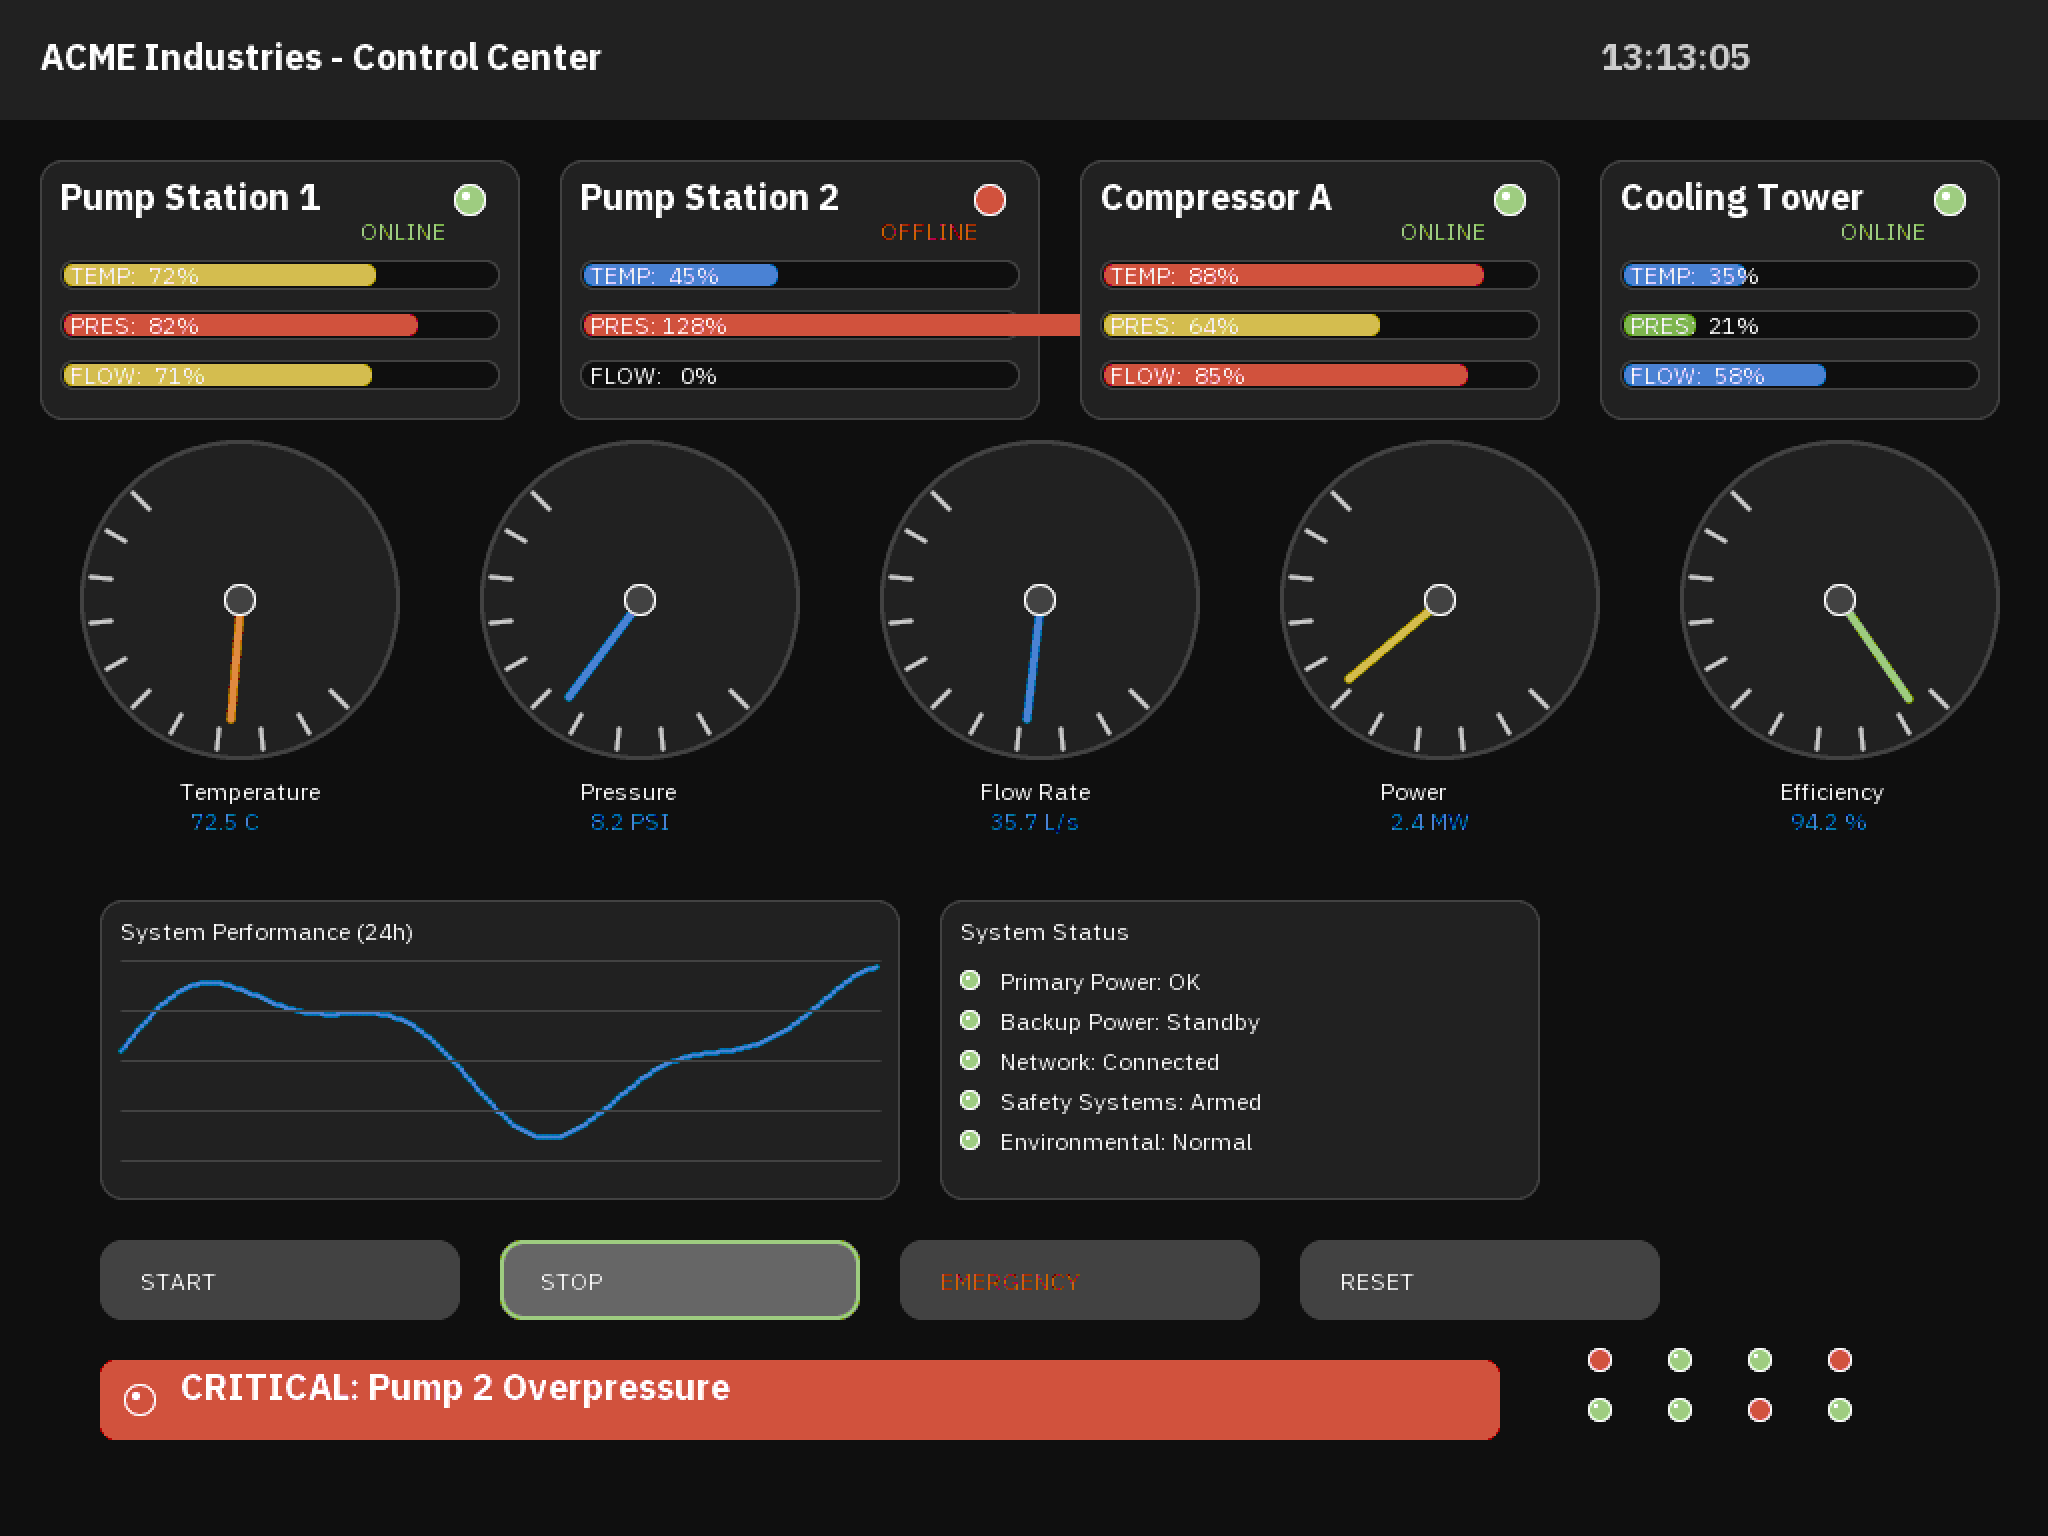
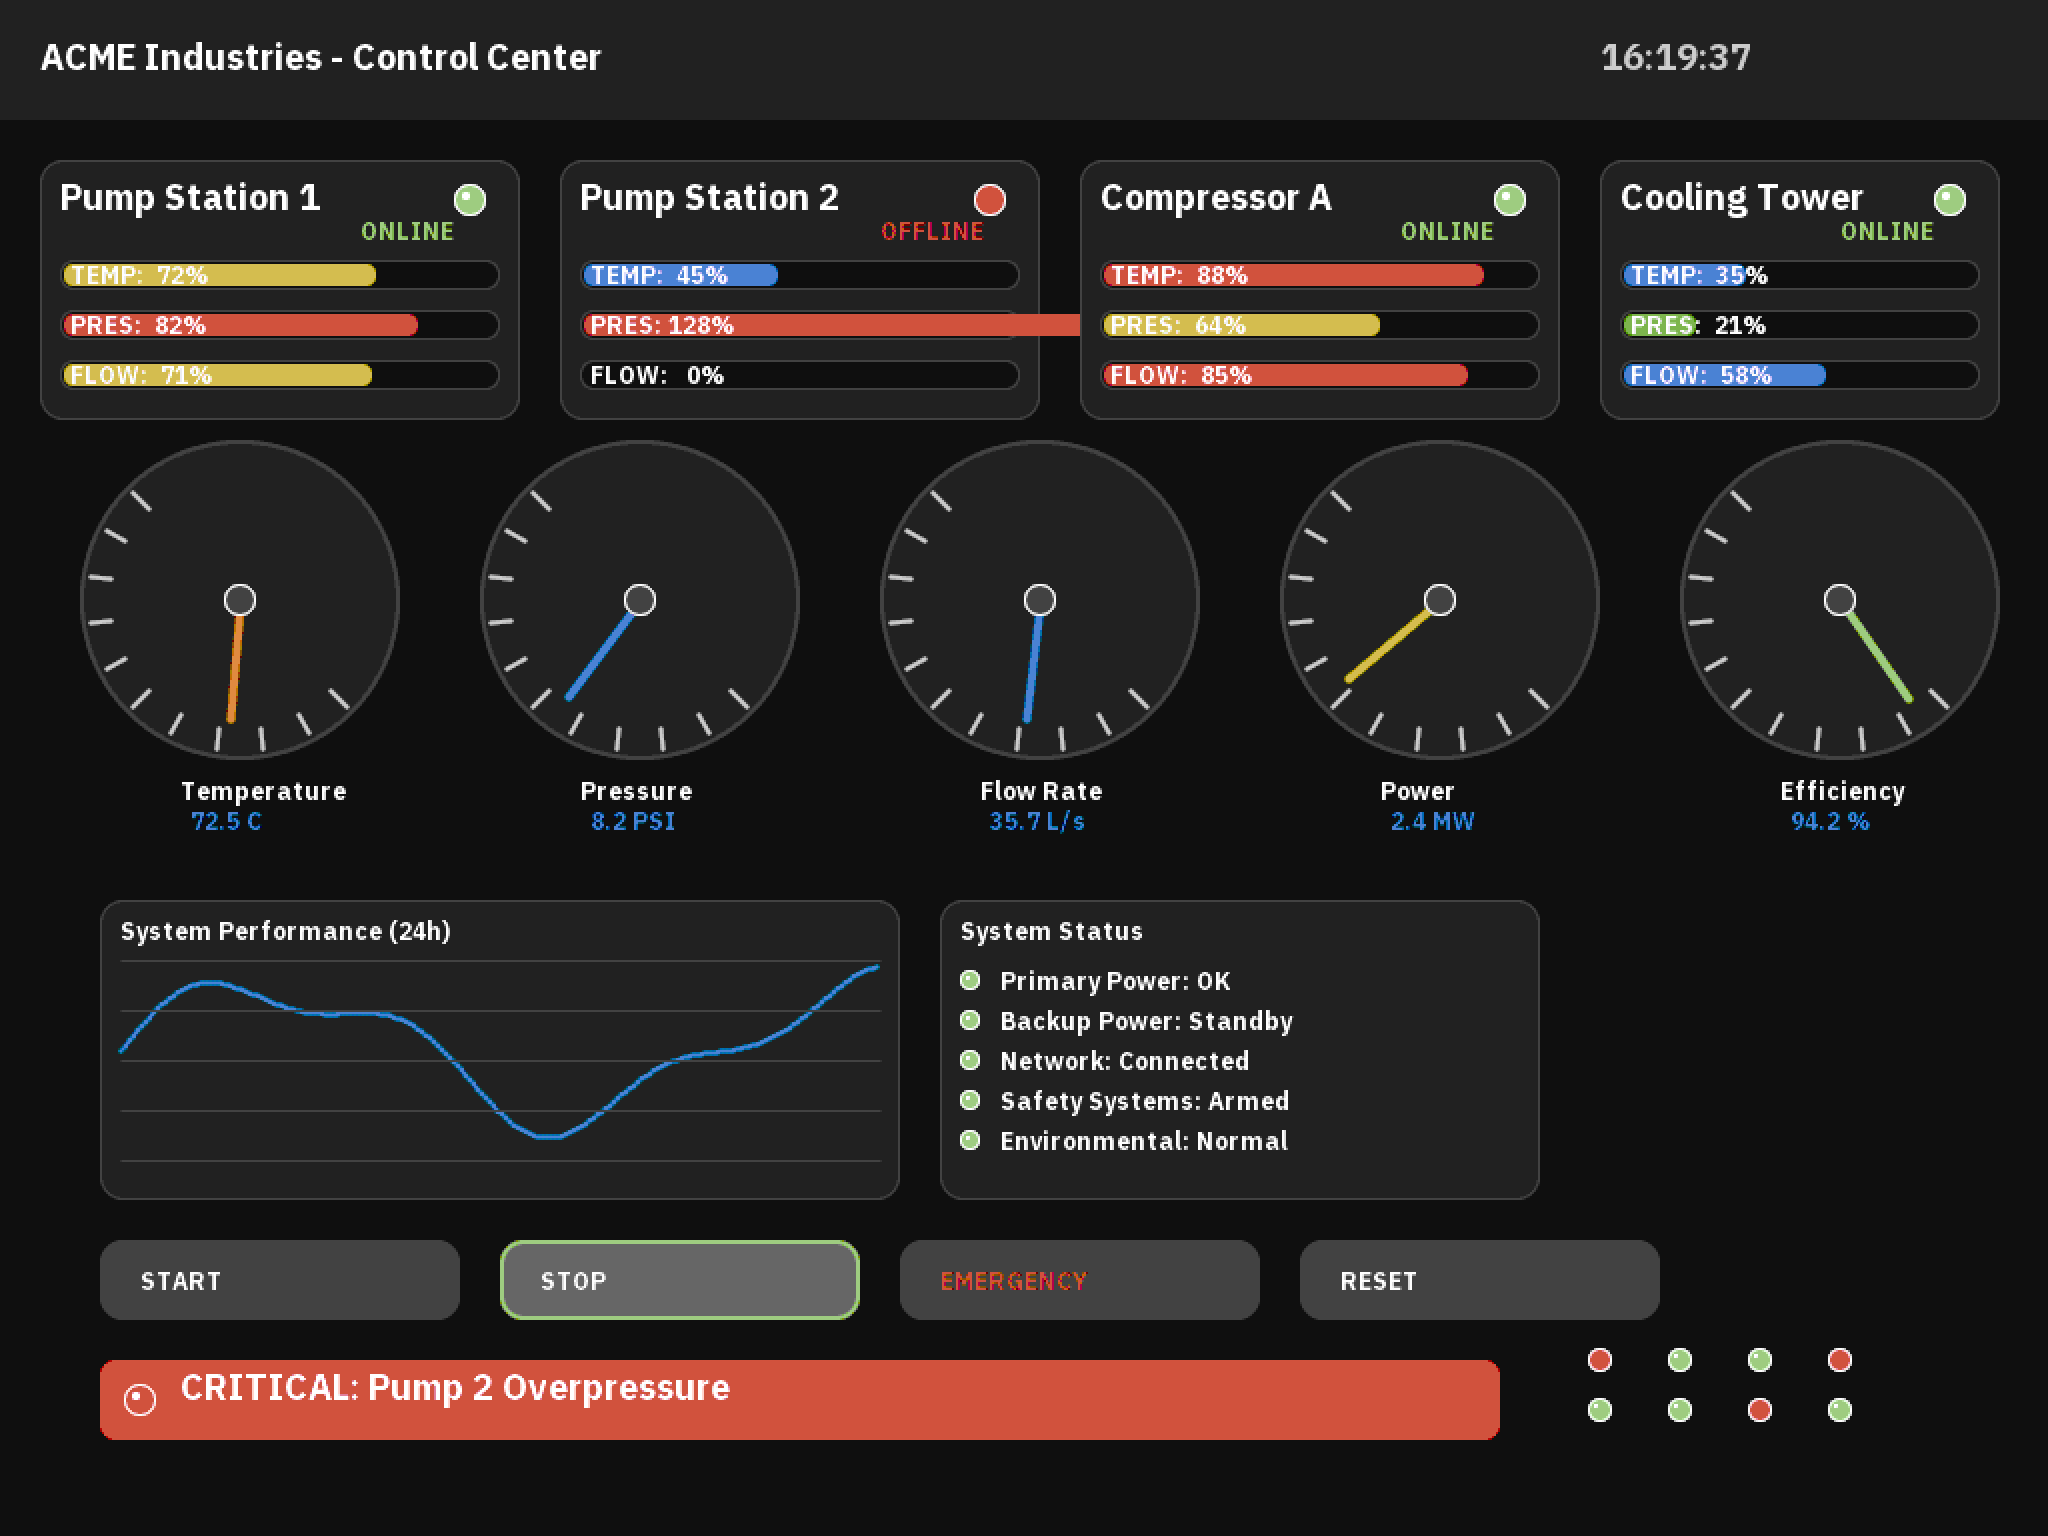
.

diff --git a/examples/industrial/example_industrial.cpp b/examples/industrial/example_industrial.cpp
@@ -1,6 +1,6 @@
 #include "constixel.hpp"
 #include "fonts/ibmplexsans_bold_18_aa.hpp"
-#include "fonts/ibmplexsans_regular_12_aa.hpp"
+#include "fonts/ibmplexsans_bold_12_aa.hpp"
 #include <chrono>
 #include <ctime>
 #include <iomanip>
@@ -9,7 +9,7 @@
 
 using namespace constixel;
 using myfont = constixel::ibmplexsans_bold_18_aa;
-using smallfont = constixel::ibmplexsans_regular_12_aa;
+using smallfont = constixel::ibmplexsans_bold_12_aa;
 using UI = image<format_8bit, 1024, 768>;
 
 // Industrial HMI color scheme (inspired by classic industrial monitors)
